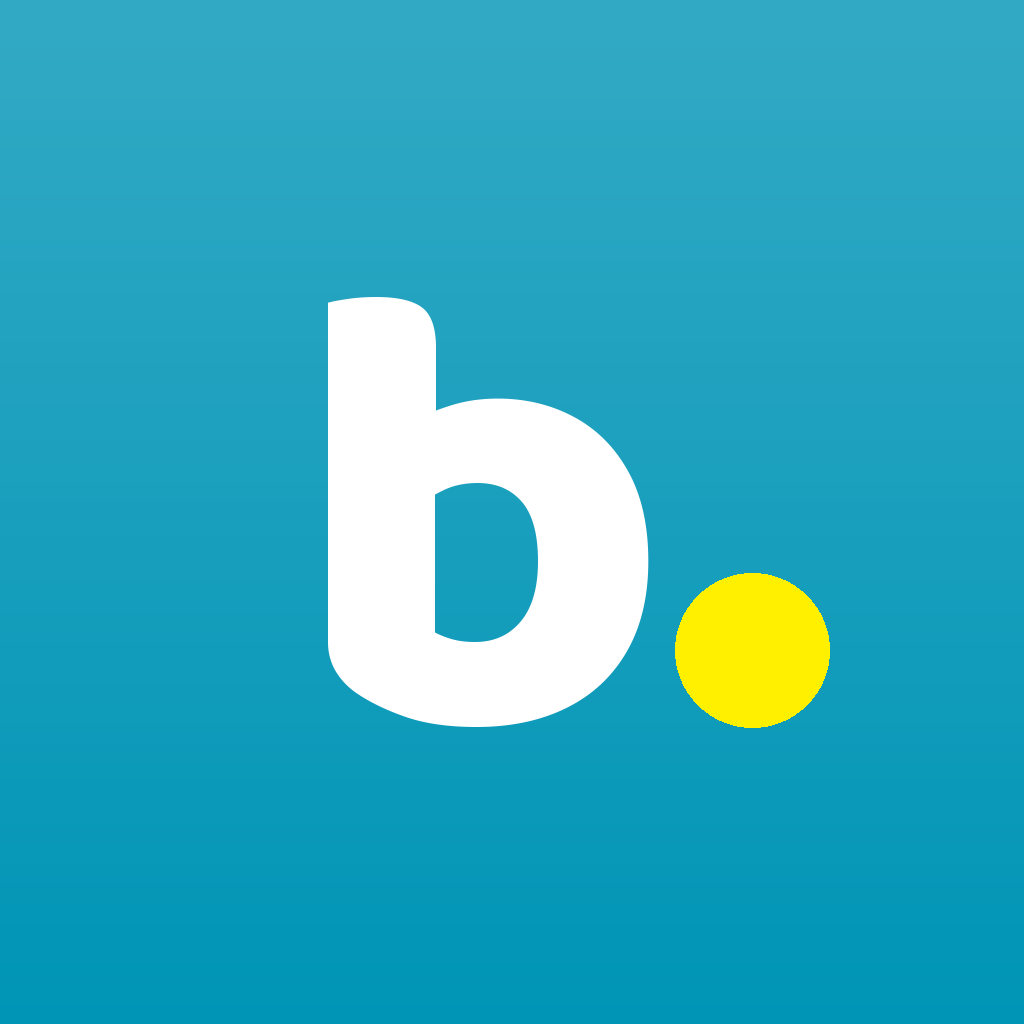
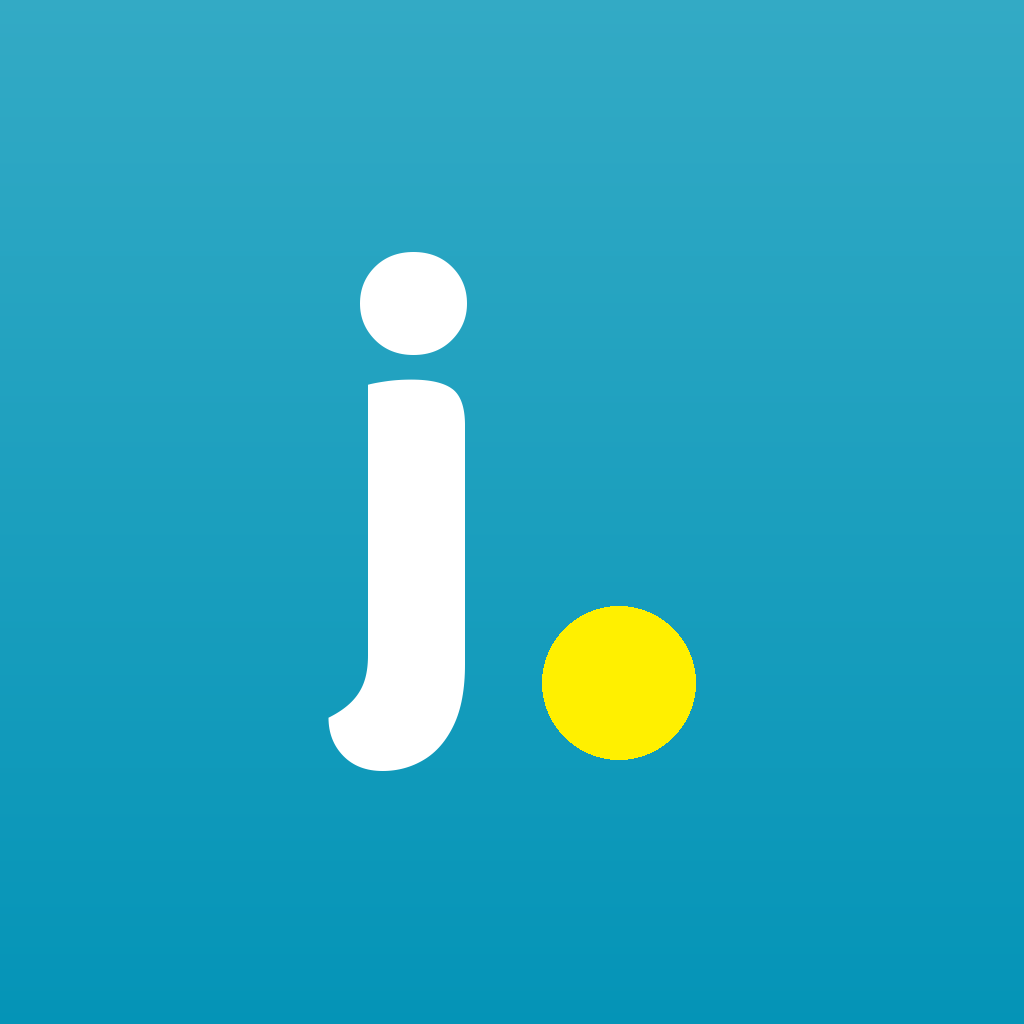
Rebrand bondi to LetsJam
- wordmark, coin glyph (j), app name, PWA manifest, page title and link previews
- new icons, splash, favicon and og card (scripts/brand-assets.py regenerates them)
- all user-facing copy and share texts say LetsJam
- app.json: slug letsjam, bundle id / package nl.letsjam.app, scheme letsjam
- kept on purpose: storage keys (no reset for existing players), vercel.app URL,
  Supabase project name, internal type names

Claude-Session: https://claude.ai/code/session_01YN6zKo929Cjax5EE9c4Eb2

Changed region(s): [[0.3125, 0.25, 0.8125, 0.75]]

diff --git a/public/index.html b/public/index.html
@@ -4,27 +4,27 @@
     <meta charset="utf-8" />
     <meta httpEquiv="X-UA-Compatible" content="IE=edge" />
     <meta name="viewport" content="width=device-width, initial-scale=1, shrink-to-fit=no, viewport-fit=cover" />
-    <title>%WEB_TITLE% · guess what happens next</title>
-    <meta name="description" content="Short clips pause right before the moment. Call what happens next with free coins, then watch it play out. Play with friends." />
+    <title>%WEB_TITLE% · call it with your crew</title>
+    <meta name="description" content="Friend pools on anything. Start a pool with your crew, call it with free coins, winners split the pot." />
     <!-- Link previews (WhatsApp, iMessage, X, LinkedIn) -->
     <meta property="og:type" content="website" />
-    <meta property="og:site_name" content="bondi" />
-    <meta property="og:title" content="bondi · guess what happens next" />
-    <meta property="og:description" content="The clip pauses. You call it. Free coins, no cash. Come play with me." />
+    <meta property="og:site_name" content="LetsJam" />
+    <meta property="og:title" content="LetsJam · call it with your crew" />
+    <meta property="og:description" content="Friend pools on anything. Free coins, no cash. Come play with me." />
     <meta property="og:url" content="https://bondi-app-one.vercel.app/" />
     <meta property="og:image" content="https://bondi-app-one.vercel.app/og.png" />
     <meta property="og:image:width" content="1200" />
     <meta property="og:image:height" content="630" />
     <meta name="twitter:card" content="summary_large_image" />
-    <meta name="twitter:title" content="bondi · guess what happens next" />
-    <meta name="twitter:description" content="The clip pauses. You call it. Free coins, no cash." />
+    <meta name="twitter:title" content="LetsJam · call it with your crew" />
+    <meta name="twitter:description" content="Friend pools on anything. Free coins, no cash." />
     <meta name="twitter:image" content="https://bondi-app-one.vercel.app/og.png" />
     <!-- Add to home screen -->
     <link rel="manifest" href="/manifest.json" />
     <link rel="apple-touch-icon" href="/apple-touch-icon.png" />
     <meta name="apple-mobile-web-app-capable" content="yes" />
     <meta name="mobile-web-app-capable" content="yes" />
-    <meta name="apple-mobile-web-app-title" content="bondi" />
+    <meta name="apple-mobile-web-app-title" content="LetsJam" />
     <meta name="apple-mobile-web-app-status-bar-style" content="black-translucent" />
     <style id="expo-reset">
       html, body { height: 100%; margin: 0; }
@@ -41,7 +41,7 @@
   </head>
 
   <body>
-    <noscript>bondi needs JavaScript to run.</noscript>
+    <noscript>LetsJam needs JavaScript to run.</noscript>
     <div id="root"></div>
     <div id="desk-hint">↑ ↓ to scroll clips · best on your phone</div>
     <script>

diff --git a/App.tsx b/App.tsx
@@ -171,7 +171,7 @@ function Shell() {
     setDare(null);
   }, [dare, ageOk, setup]);
 
-  // After your third call, once: offer to put bondi on the home screen (web on a phone only).
+  // After your third call, once: offer to put LetsJam on the home screen (web on a phone only).
   useEffect(() => {
     if (installAsked.current !== false || stats.bets < 3 || installOpen) return;
     const kind = installKind();
@@ -182,7 +182,7 @@ function Shell() {
   const installDone = (installed: boolean) => {
     setInstallOpen(null);
     AsyncStorage.setItem(INSTALL_KEY, '1').catch(() => {});
-    if (installed) setToast({ id: Date.now(), text: 'bondi is on your home screen 🎉' });
+    if (installed) setToast({ id: Date.now(), text: 'LetsJam is on your home screen 🎉' });
   };
 
   // Desktop: arrow keys or j/k move through the feed.
@@ -255,7 +255,7 @@ function Shell() {
         {tab === 'friends' && <FriendsScreen renderBar={renderBar} onPoolWith={(friendId) => { setPoolIntent({ friendId, n: Date.now() }); setTab('pools'); }} />}
         {tab === 'me' && <ProfileScreen renderBar={renderBar} balance={balance} daily={daily} onClaim={claim} onFriends={() => setTab('friends')} />}
         {!CLIPS_LIVE && tab === 'feed' && <ClipsSoon topInset={insets.top} onPools={() => setTab('pools')} onInvite={async () => {
-          const r = await shareText(`come play bondi with me. friend pools with free coins, no cash. we both get 500 coins.`, inviteLink());
+          const r = await shareText(`come play LetsJam with me. friend pools with free coins, no cash. we both get 500 coins.`, inviteLink());
           if (r !== 'dismissed') recordShare();
           if (r === 'copied') setToast({ id: Date.now(), text: 'invite link copied' });
         }} />}
@@ -275,7 +275,7 @@ function Shell() {
                   balance={balance} placeBet={placeBet} onNext={() => next(index)} />
               )}
               ListFooterComponent={<FeedEnd height={height} onPools={() => setTab('pools')} onCreate={() => setTab('create')} onInvite={async () => {
-                const r = await shareText(`come play bondi with me. guess what happens next, free coins, no cash. we both get 500 coins.`, inviteLink());
+                const r = await shareText(`come play LetsJam with me. guess what happens next, free coins, no cash. we both get 500 coins.`, inviteLink());
                 if (r !== 'dismissed') recordShare();
                 if (r === 'copied') setToast({ id: Date.now(), text: 'invite link copied' });
               }} />}

diff --git a/src/components/ProfileScreen.tsx b/src/components/ProfileScreen.tsx
@@ -105,7 +105,7 @@ export function ProfileScreen({ renderBar, balance, daily, onClaim, onFriends }:
           ))}
         </View>
 
-        <Pressable onPress={async () => { if ((await shareText(`come play bondi with me. use my code ${inviteCode()} and we both get 500 coins.`, inviteLink())) !== 'dismissed') recordShare(); }} style={styles.invite} accessibilityRole="button">
+        <Pressable onPress={async () => { if ((await shareText(`come play LetsJam with me. use my code ${inviteCode()} and we both get 500 coins.`, inviteLink())) !== 'dismissed') recordShare(); }} style={styles.invite} accessibilityRole="button">
           <T size={30}>💌</T>
           <View style={{ flex: 1 }}>
             <T weight="bold" color={colors.white}>invite friends, get 500 coins each</T>
@@ -116,11 +116,11 @@ export function ProfileScreen({ renderBar, balance, daily, onClaim, onFriends }:
 
         <View style={styles.card}>
           <Eyebrow label="play it cool" />
-          <T weight="semi" color={colors.deep}>bondi is free to play. coins can’t be bought or cashed out, and there are no prizes with money value.</T>
+          <T weight="semi" color={colors.deep}>LetsJam is free to play. coins can’t be bought or cashed out, and there are no prizes with money value.</T>
           <View style={styles.row}><Ionicons name="time-outline" size={18} color={colors.brand} /><T weight="semi" color={colors.deep}>take a break reminder after 30 minutes</T></View>
           <View style={styles.row}><Ionicons name="shield-checkmark-outline" size={18} color={colors.brand} /><T weight="semi" color={colors.deep}>every outcome is locked and hashed before a clip goes live</T></View>
         </View>
-        <T size={12} color={colors.muted} style={{ textAlign: 'center' }}>made with 💙 by bondi</T>
+        <T size={12} color={colors.muted} style={{ textAlign: 'center' }}>made with 💙 by LetsJam</T>
       </View>
     </ScrollView>
   );

diff --git a/src/components/FriendsScreen.tsx b/src/components/FriendsScreen.tsx
@@ -27,7 +27,7 @@ export function FriendsScreen({ renderBar, onPoolWith }: { renderBar: RenderBar;
   const board = [...friends, me()].sort((a, b) => b.stats.hitRate - a.stats.hitRate || b.stats.calls - a.stats.calls);
 
   async function invite() {
-    const r = await shareText(`come play bondi with me. guess what happens next, free coins, no cash. use my code ${inviteCode()} and we both get 500 coins.`, inviteLink());
+    const r = await shareText(`come play LetsJam with me. guess what happens next, free coins, no cash. use my code ${inviteCode()} and we both get 500 coins.`, inviteLink());
     setCopied(r === 'copied' ? 'link copied' : r === 'shared' ? 'sent!' : null);
     if (r !== 'dismissed') recordShare();
     if (r !== 'dismissed') setTimeout(() => setCopied(null), 2000);
@@ -42,7 +42,7 @@ export function FriendsScreen({ renderBar, onPoolWith }: { renderBar: RenderBar;
         <View style={styles.band}>
           <Eyebrow label={`${friends.length} friends`} tone="white" />
           <H size={40} color={colors.white}>your <H size={40} color={colors.yellow}>people</H></H>
-          <T weight="semi" color={colors.white} size={16}>bondi is better with the besties. invite them and you both get 500 coins.</T>
+          <T weight="semi" color={colors.white} size={16}>LetsJam is better with the besties. invite them and you both get 500 coins.</T>
           <View style={styles.inviteRow}>
             <View style={styles.code}>
               <T size={12} weight="bold" color={colors.muted}>your code</T>

diff --git a/src/brag.ts b/src/brag.ts
@@ -19,8 +19,8 @@ function draw(b: BragInput): HTMLCanvasElement {
   g.beginPath(); g.arc(80, 1240, 220, 0, Math.PI * 2); g.fill();
   const D = 'Baloo2_800ExtraBold, sans-serif', Q = 'Quicksand_700Bold, sans-serif';
   g.textBaseline = 'alphabetic';
-  g.fillStyle = '#fff'; g.font = `96px ${D}`; g.fillText('bondi', 80, 170);
-  const w = g.measureText('bondi').width; g.fillStyle = '#FFF000'; g.beginPath(); g.arc(80 + w + 22, 146, 13, 0, Math.PI * 2); g.fill();
+  g.fillStyle = '#fff'; g.font = `96px ${D}`; g.fillText('letsjam', 80, 170);
+  const w = g.measureText('letsjam').width; g.fillStyle = '#FFF000'; g.beginPath(); g.arc(80 + w + 22, 146, 13, 0, Math.PI * 2); g.fill();
 
   g.fillStyle = '#FFF000'; g.font = `190px ${D}`; g.fillText('called it!', 70, 450);
   g.fillStyle = '#fff'; g.font = `52px ${Q}`;
@@ -75,7 +75,7 @@ export async function shareBrag(b: BragInput): Promise<'shared' | 'copied' | 'sa
   try {
     const blob = await new Promise<Blob | null>((res) => draw(b).toBlob(res, 'image/png'));
     if (blob) {
-      const file = new File([blob], 'bondi-called-it.png', { type: 'image/png' });
+      const file = new File([blob], 'letsjam-called-it.png', { type: 'image/png' });
       if (nav?.canShare?.({ files: [file] })) {
         try { await nav.share({ files: [file], text: `${b.text} ${b.link}` }); return 'shared'; } catch { return 'dismissed'; }
       }

diff --git a/src/components/ui.tsx b/src/components/ui.tsx
@@ -4,7 +4,7 @@ import { LinearGradient } from 'expo-linear-gradient';
 import { colors, fonts, radius, shadow } from '../theme';
 
 export function Wordmark({ size = 30, color = colors.white }: { size?: number; color?: string }) {
-  return <Text style={{ fontFamily: fonts.displayHeavy, fontSize: size, color, letterSpacing: -size * 0.03, lineHeight: size * 1.15 }}>bondi</Text>;
+  return <Text style={{ fontFamily: fonts.displayHeavy, fontSize: size, color, letterSpacing: -size * 0.03, lineHeight: size * 1.15 }}>letsjam</Text>;
 }
 
 export function H({ size = 28, color = colors.deep, style, ...rest }: TextProps & { size?: number; color?: string }) {
@@ -59,7 +59,7 @@ export function Eyebrow({ label, tone = 'brand' }: { label: string; tone?: 'bran
 export function Coin({ size = 16 }: { size?: number }) {
   return (
     <LinearGradient colors={['#FFE98A', colors.sun]} style={{ width: size, height: size, borderRadius: size / 2, alignItems: 'center', justifyContent: 'center', borderWidth: 1, borderColor: '#E9B800' }}>
-      <Text style={{ fontFamily: fonts.displayHeavy, fontSize: size * 0.62, color: '#9A6B00', lineHeight: size * 0.8 }}>b</Text>
+      <Text style={{ fontFamily: fonts.displayHeavy, fontSize: size * 0.62, color: '#9A6B00', lineHeight: size * 0.8 }}>j</Text>
     </LinearGradient>
   );
 }

diff --git a/src/components/InstallSheet.tsx b/src/components/InstallSheet.tsx
@@ -5,14 +5,14 @@ import { colors, radius, shadow } from '../theme';
 import { H, PillButton, T } from './ui';
 import { promptInstall } from '../install';
 
-/** Asked once, after your third call: put bondi on the home screen so it opens full screen. */
+/** Asked once, after your third call: put LetsJam on the home screen so it opens full screen. */
 export function InstallSheet({ kind, onDone }: { kind: 'prompt' | 'ios'; onDone: (installed: boolean) => void }) {
   const [busy, setBusy] = useState(false);
   return (
     <View style={styles.scrim}>
       <View style={styles.card}>
-        <Image source={{ uri: 'icon-192.png' }} style={styles.icon} accessibilityLabel="bondi app icon" />
-        <H size={28} style={{ textAlign: 'center' }}>put bondi on your home screen</H>
+        <Image source={{ uri: 'icon-192.png' }} style={styles.icon} accessibilityLabel="LetsJam app icon" />
+        <H size={28} style={{ textAlign: 'center' }}>put LetsJam on your home screen</H>
         <T weight="semi" color={colors.muted} style={{ textAlign: 'center' }}>opens full screen like an app, and your daily coins are one tap away. no app store, nothing to download.</T>
         {kind === 'ios' ? (
           <View style={styles.steps}>

diff --git a/src/social.ts b/src/social.ts
@@ -199,7 +199,7 @@ export function befriendInviter(handle: string, opts: { request?: boolean } = {}
   let p = Object.values(people).find((x) => x.id !== ME && x.handle === h);
   if (!p) {
     const n = [...h].reduce((a, c) => a + c.charCodeAt(0), 0);
-    p = { id: `u:${h}`, handle: h, name: h.split(/[._]/)[0] || h, emoji: AVATAR_EMOJI[n % AVATAR_EMOJI.length], color: AVATAR_COLORS[n % AVATAR_COLORS.length], bio: 'brought you to bondi', city: '', stats: { calls: 0, hitRate: 0, poolsWon: 0, bestStreak: 0 } };
+    p = { id: `u:${h}`, handle: h, name: h.split(/[._]/)[0] || h, emoji: AVATAR_EMOJI[n % AVATAR_EMOJI.length], color: AVATAR_COLORS[n % AVATAR_COLORS.length], bio: 'brought you to LetsJam', city: '', stats: { calls: 0, hitRate: 0, poolsWon: 0, bestStreak: 0 } };
     people[p.id] = p;
   }
   incoming.delete(p.id); outgoing.delete(p.id); friends.add(p.id);

diff --git a/public/sw.js b/public/sw.js
@@ -1,7 +1,7 @@
-// bondi service worker: makes the web app installable and shows the last loaded app when
+// LetsJam service worker: makes the web app installable and shows the last loaded app when
 // offline. Pages always come from the network first, so a new deploy is picked up at once.
 // Clips and code are left to the browser cache (video needs range requests).
-const CACHE = 'bondi-shell-v1';
+const CACHE = 'letsjam-shell-v1';
 self.addEventListener('install', (e) => { e.waitUntil(caches.open(CACHE).then((c) => c.add('/')).then(() => self.skipWaiting())); });
 self.addEventListener('activate', (e) => {
   e.waitUntil(caches.keys().then((ks) => Promise.all(ks.filter((k) => k !== CACHE).map((k) => caches.delete(k)))).then(() => self.clients.claim()));

diff --git a/src/components/ResultOverlay.tsx b/src/components/ResultOverlay.tsx
@@ -40,7 +40,7 @@ export function ResultOverlay({ clip, result, stake, streak, dare, onDare, onNex
 
   async function brag() {
     const r = await shareBrag({ question: clip.question, answer: label, net, crowd, streak, link: inviteLink(),
-      text: `called it on bondi: “${clip.question}” → “${label}”. +${net} coins. bet you can’t. code ${inviteCode()}` });
+      text: `called it on LetsJam: “${clip.question}” → “${label}”. +${net} coins. bet you can’t. code ${inviteCode()}` });
     if (r === 'dismissed') return;
     recordShare();
     if (r === 'saved') toast('brag card saved, link copied');

diff --git a/src/theme.ts b/src/theme.ts
@@ -1,4 +1,4 @@
-/** Bondi brand tokens, taken from bondi.framer.ai. Main colour #0095B6. */
+/** LetsJam brand tokens (carried over from bondi.framer.ai). Main colour #0095B6. */
 export const colors = {
   brand: '#0095B6',      // main
   brandSoft: '#33AAC5',  // headings, secondary buttons on the site

diff --git a/scripts/brand-assets.py b/scripts/brand-assets.py
@@ -1,0 +1,113 @@
+"""Renders the LetsJam app icons, splash, favicon and link-preview card.
+Same look as before: Baloo 2 ExtraBold in white on the teal gradient, with the yellow dot.
+Needs Pillow and node_modules (for the font). Run:  python3 scripts/brand-assets.py"""
+import os
+from PIL import Image, ImageDraw, ImageFont
+
+ROOT = os.path.dirname(os.path.dirname(os.path.abspath(__file__)))
+FONTS = os.path.join(ROOT, 'node_modules', '@expo-google-fonts')
+BALOO = os.path.join(FONTS, 'baloo-2', '800ExtraBold', 'Baloo2_800ExtraBold.ttf')
+QUICK = os.path.join(FONTS, 'quicksand', '700Bold', 'Quicksand_700Bold.ttf')
+TOP, BOTTOM = (51, 170, 197), (4, 148, 183)
+BRAND, DEEP, YELLOW, WHITE = (0, 149, 182), (0, 82, 100), (255, 240, 0), (255, 255, 255)
+NAME, MARK = 'letsjam', 'j'
+
+
+def gradient(w, h):
+    im = Image.new('RGB', (w, h))
+    d = ImageDraw.Draw(im)
+    for y in range(h):
+        t = y / max(h - 1, 1)
+        d.line([(0, y), (w, y)], fill=tuple(round(a + (b - a) * t) for a, b in zip(TOP, BOTTOM)))
+    return im
+
+
+def mark(size, color=WHITE, dot=YELLOW, scale=0.56):
+    """The 'j.' glyph centred on a transparent square."""
+    im = Image.new('RGBA', (size, size), (0, 0, 0, 0))
+    d = ImageDraw.Draw(im)
+    font = ImageFont.truetype(BALOO, round(size * scale))
+    l, t, r, b = d.textbbox((0, 0), MARK, font=font)
+    gw, gh = r - l, b - t
+    dr = size * 0.075
+    total = gw + dr * 0.6 + dr * 2
+    x0 = (size - total) / 2 - l
+    y0 = (size - gh) / 2 - t
+    d.text((x0, y0), MARK, font=font, fill=color)
+    cx, cy = x0 + r + dr * 0.6 + dr, y0 + b - dr * 1.15
+    d.ellipse([cx - dr, cy - dr, cx + dr, cy + dr], fill=dot)
+    return im
+
+
+def icon(size):
+    im = gradient(size, size).convert('RGBA')
+    im.alpha_composite(mark(size))
+    return im.convert('RGB')
+
+
+def wordmark(height, color=WHITE, dot=YELLOW):
+    """'letsjam.' on transparent, tight to the text."""
+    font = ImageFont.truetype(BALOO, height)
+    tmp = ImageDraw.Draw(Image.new('RGBA', (1, 1)))
+    l, t, r, b = tmp.textbbox((0, 0), NAME, font=font)
+    dr = height * 0.085
+    w, h = (r - l) + dr * 3 + 4, (b - t) + 4
+    im = Image.new('RGBA', (round(w), round(h)), (0, 0, 0, 0))
+    d = ImageDraw.Draw(im)
+    d.text((2 - l, 2 - t), NAME, font=font, fill=color)
+    # sit the dot on the x-height midline, like the old wordmark
+    cx, cy = 2 + (r - l) + dr * 1.6, 2 + (b - t) * 0.55
+    d.ellipse([cx - dr, cy - dr, cx + dr, cy + dr], fill=dot)
+    return im
+
+
+def splash():
+    im = Image.new('RGBA', (1200, 480), (0, 0, 0, 0))
+    wm = wordmark(220)
+    wm.thumbnail((1100, 440))
+    im.alpha_composite(wm, ((1200 - wm.width) // 2, (480 - wm.height) // 2))
+    return im
+
+
+def og():
+    W, H = 1200, 630
+    im = gradient(W, H).convert('RGBA')
+    d = ImageDraw.Draw(im)
+    wm = wordmark(84)
+    im.alpha_composite(wm, (72, 70))
+    big = ImageFont.truetype(BALOO, 112)
+    d.text((72, 165), 'call it with', font=big, fill=WHITE)
+    x = 72
+    d.text((x, 280), 'your ', font=big, fill=WHITE)
+    x += d.textlength('your ', font=big)
+    d.text((x, 280), 'crew', font=big, fill=YELLOW)
+    sub = ImageFont.truetype(QUICK, 40)
+    d.text((72, 445), 'friend pools on anything. winners split the pot.', font=sub, fill=WHITE)
+    pill = ImageFont.truetype(QUICK, 34)
+    label = 'free coins · no cash · 18+'
+    pw = d.textlength(label, font=pill) + 64
+    d.rounded_rectangle([72, 520, 72 + pw, 586], radius=33, fill=WHITE)
+    d.text((72 + 32, 530), label, font=pill, fill=BRAND)
+    # right side: a big mark
+    m = mark(380)
+    im.alpha_composite(m, (W - 380 - 50, 125))
+    return im.convert('RGB')
+
+
+def main():
+    out = lambda p: os.path.join(ROOT, p)
+    for path, size in [('assets/icon.png', 1024), ('public/icon-512.png', 512), ('public/icon-192.png', 192),
+                       ('public/apple-touch-icon.png', 180), ('assets/favicon.png', 48)]:
+        icon(size).save(out(path))
+    # Android adaptive icon: glyph inside the 66% safe zone, flat brand background
+    mark(1024, scale=0.40).save(out('assets/android-icon-foreground.png'))
+    Image.new('RGB', (1024, 1024), BRAND).save(out('assets/android-icon-background.png'))
+    mono = mark(1024, color=(0, 0, 0), dot=(0, 0, 0), scale=0.40)
+    mono.save(out('assets/android-icon-monochrome.png'))
+    splash().save(out('assets/splash-icon.png'))
+    og().save(out('public/og.png'))
+    print('brand assets written')
+
+
+if __name__ == '__main__':
+    main()
